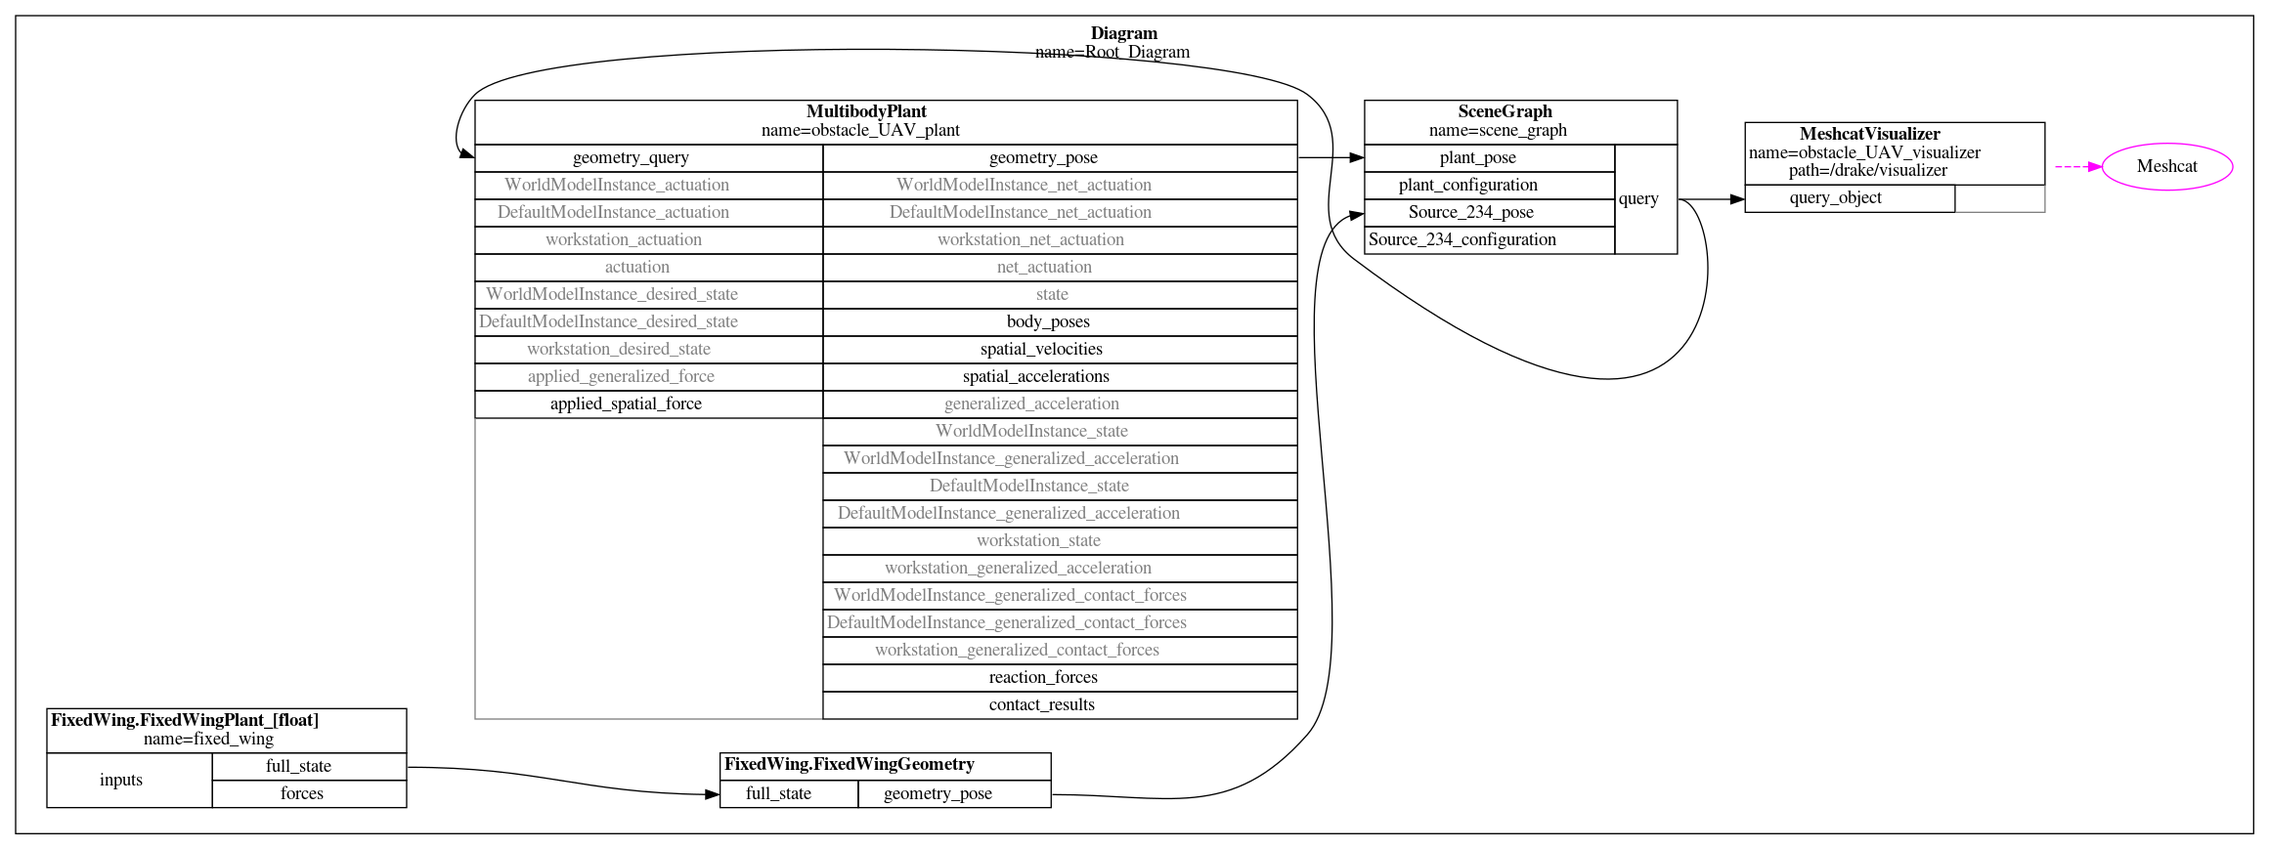
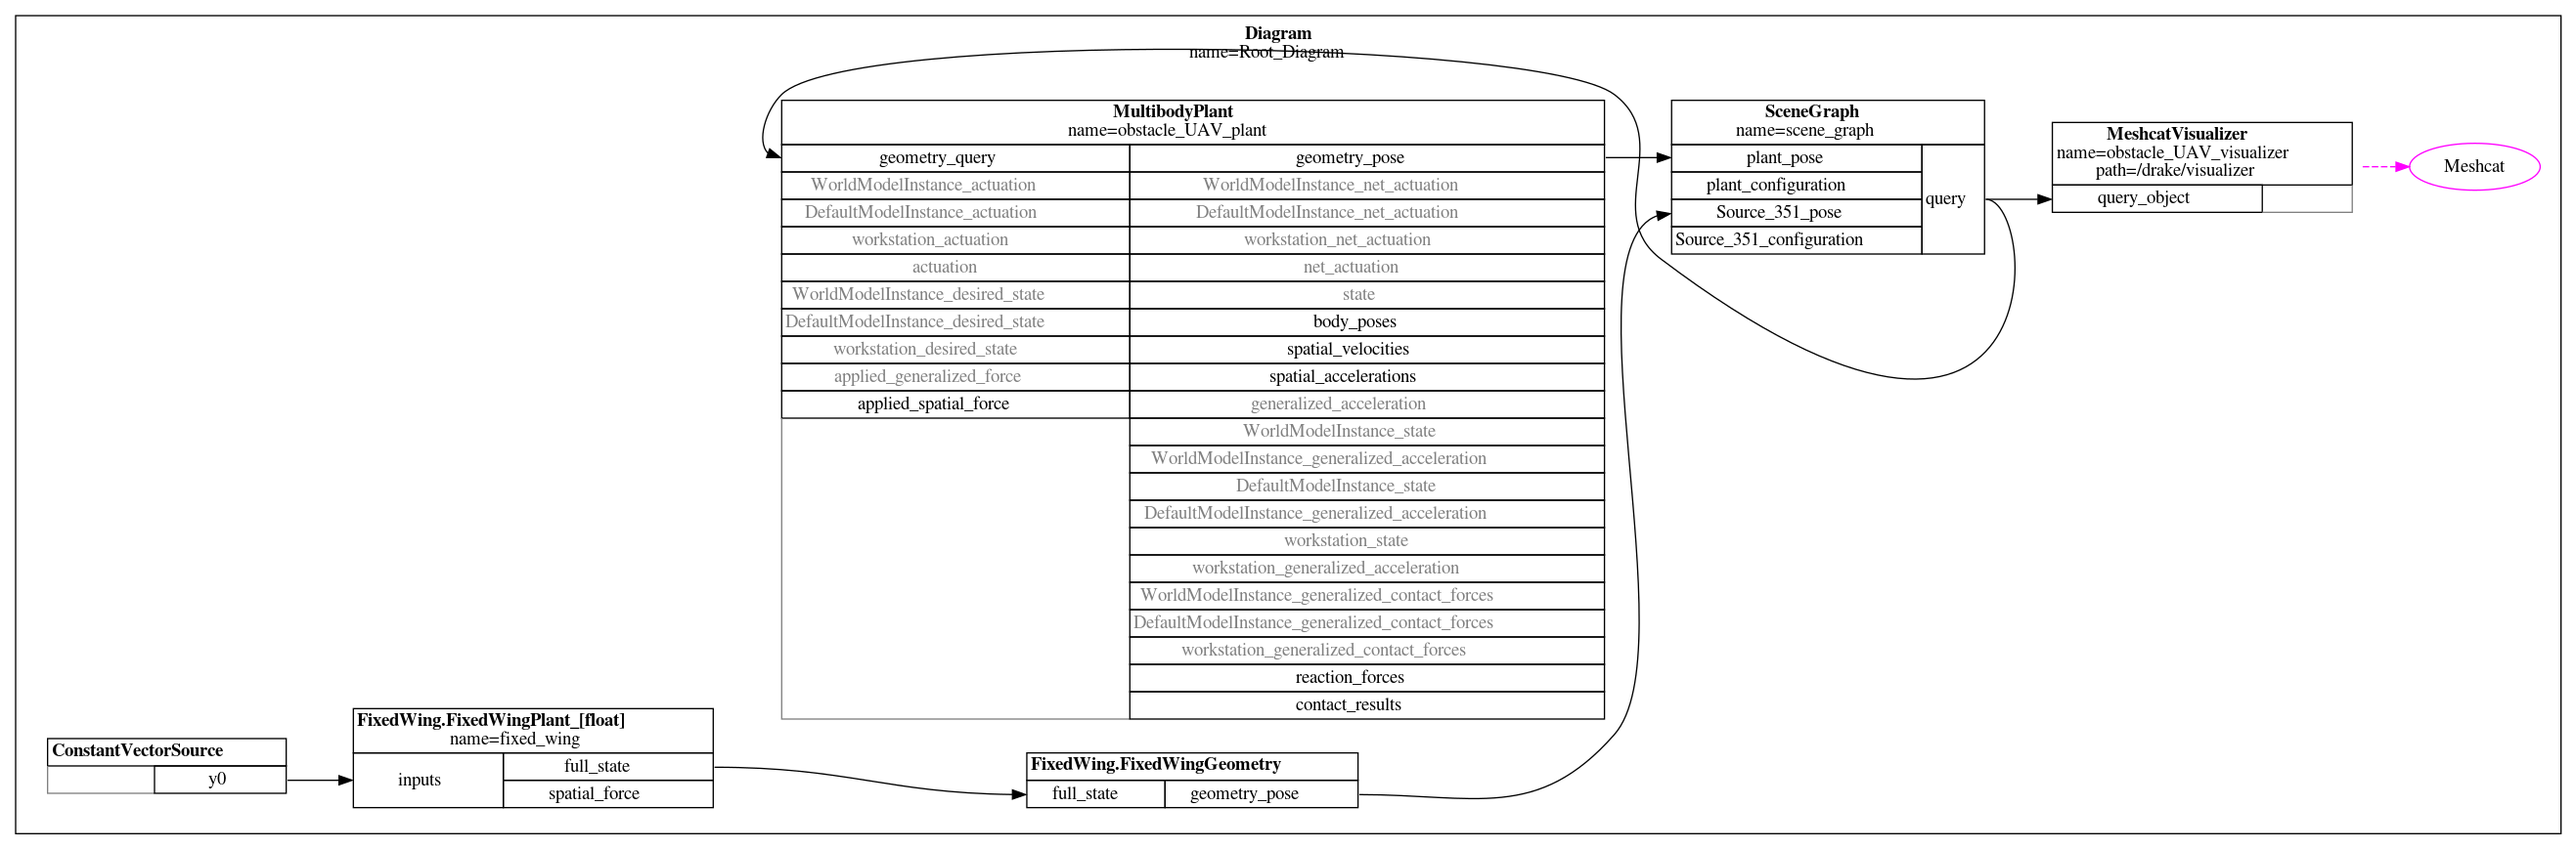
fixed obstacles_scaled and some dynamics

diff --git a/main.py b/main.py
@@ -8,7 +8,7 @@ import numpy as np
 import time
 
 
-obstacle = 1
+obstacle = 0
 
 if obstacle == 0:
     PATH_TO_OBSTACLE_ENV = "models/obstacles_house_formation.urdf"
@@ -17,7 +17,7 @@ if obstacle == 0:
     CENTER_GROUND_XY = np.array([0, 5]) 
     GROUND_WIDTH = 7
     GROUND_LENGTH = 15
-    OBST_HEIGHT = 2
+    OBST_HEIGHT = 3
 elif obstacle == 1:
     
     PATH_TO_OBSTACLE_ENV = "models/obstacles_house_formation_Large.urdf"
@@ -28,7 +28,7 @@ elif obstacle == 1:
     OBST_HEIGHT = 2
     
 
-OBSTACLE_SCALEFACTOR= 2.4
+PLANE_WIDTH = 1
 
 # trajectory
 KDIMENTIONS = 3
@@ -50,7 +50,7 @@ if __name__ == "__main__":
     
     print("################ Building environment model ################\n")
     simEnv = sim.SimulationEnvironment(obstacle_load_path=PATH_TO_OBSTACLE_ENV)
-    # simEnv.connect_meshcat()
+    simEnv.connect_meshcat()
     simEnv.build_model()
     simEnv.save_and_display_diagram()
     sim.print_model_instances(simEnv.plant)
@@ -61,22 +61,22 @@ if __name__ == "__main__":
 
     print("################ Starting IRIS region computation ################\n")
     irisOptions = irisUtils.IrisWrapperOptions()
-    irisOptions.use_CliqueCover = True
-    irisOptions.obstacle_scale_factor = OBSTACLE_SCALEFACTOR
-    irisOptions.seed = 0
-    irisOptions.region_file_path = "region_files/iris_regions_Large"
+    irisOptions.use_CliqueCover = False
     irisOptions.clique_num_points = 1000
+    irisOptions.obstacle_offset_factor = PLANE_WIDTH/2.0
+    irisOptions.seed = 0
+    irisOptions.region_file_path = "region_files/iris_regions"
+    irisOptions.num_regions = 20
     
     irisWrapper = irisUtils.IrisWrapper(irisOptions)    
     simEnv.compute_obstacles(irisWrapper)
     irisWrapper.determine_and_set_domain(CENTER_GROUND_XY, GROUND_WIDTH, GROUND_LENGTH, OBST_HEIGHT)    
     
-    # irisWrapper.add_meshVisualization_iris_obstacles(simEnv.meshcat, is_visible=True)
-    # irisWrapper.add_meshVisualization_iris_domain(simEnv.meshcat, is_visible=True)
+    irisWrapper.add_meshVisualization_iris_obstacles(simEnv.meshcat, is_visible=True)
+    irisWrapper.add_meshVisualization_iris_domain(simEnv.meshcat, is_visible=True)
     
     
-    if irisWrapper.load_regions_from_file() is None:
-            
+    if irisWrapper.load_regions_from_file() is None: 
         irisWrapper.solveIRIS()
         irisWrapper.save_regions_to_file()
     
@@ -85,9 +85,10 @@ if __name__ == "__main__":
     
     print("################ FINISHED IRIS computation ################\n\n")
     
+  
     # Save the regions to a file
     
-    
+    input("Press Enter to continue...")
     
     print("################ Solving GCS trajectory ################\n")
     options = gcsUtils.GCSTrajectoryOptions()
@@ -109,8 +110,8 @@ if __name__ == "__main__":
     gcsTraj = gcsUtils.GCSTrajectory(KDIMENTIONS, options)
     start = [0, 0, 1]
     # goal = [0.5, 11.5, 1.5]
-    # goal = [0, 10.5, 1.5]
-    goal = [0.5, 18.5, 1]
+    goal = [0, 10.5, 1.5]
+    # goal = [0.5, 18.5, 1]
     
     gcsTraj.add_start_goal_and_viz(start, goal, simEnv.meshcat, zero_deriv_boundary=None)
     gcsTraj.add_pathLengthCost(1000)
@@ -137,6 +138,7 @@ if __name__ == "__main__":
     simulator.connect_meshcat()
     simulator.add_fixed_wing()
     simulator.add_controller(gcsTraj.trajectory.value(6))
+    simulator.add_constant_inputSource([0,0,0,0])
     simulator.build_model()
     simulator.save_and_display_diagram()
     

diff --git a/FixedWing.py b/FixedWing.py
@@ -128,8 +128,8 @@ def FixedWingPlant_(T):
             fullstate_dot.z = -np.sin(s.gamma) * s.v_a
             fullstate_dot.v_a = X_a/self.m - np.sin(s.gamma) * self.g
             
-            fullstate_dot.beta = np.sin(s.alpha)*s.p - np.cos(s.alpha)*s.r + (np.cos(s.gamma)*np.sin(s.mu)*self.m*self.g + Y_a )/(self.m*s.v_a)
-            fullstate_dot.alpha = s.q - (np.cos(s.alpha)*s.p + np.sin(s.alpha)*s.r)*np.tan(s.beta) +  (np.cos(s.gamma)*np.cos(s.mu)*self.g)/(np.cos(s.beta)*s.v_a) + Z_a/(np.cos(s.beta)*s.v_a*self.m)
+            fullstate_dot.beta = 0 # np.sin(s.alpha)*s.p - np.cos(s.alpha)*s.r + (np.cos(s.gamma)*np.sin(s.mu)*self.m*self.g + Y_a )/(self.m*s.v_a)
+            fullstate_dot.alpha = 0 #s.q - (np.cos(s.alpha)*s.p + np.sin(s.alpha)*s.r)*np.tan(s.beta) +  (np.cos(s.gamma)*np.cos(s.mu)*self.g)/(np.cos(s.beta)*s.v_a) + Z_a/(np.cos(s.beta)*s.v_a*self.m)
             
             fullstate_dot.chi = (-Z_a * np.sin(s.mu) + Y_a * np.cos(s.mu)) / (s.v_a * self.m * np.cos(s.mu))
             fullstate_dot.gamma = (-np.cos(s.gamma) * self.g * self.m - Y_a * np.sin(s.mu) - Z_a * np.cos(s.mu)) / (s.v_a * self.m)
@@ -170,8 +170,8 @@ def FixedWingPlant_(T):
             
             derivatives.get_mutable_vector().SetFromVector(fullstate_dot[:])
             
-            print("derivatives updated")
-            print("fullstate: ", fullstate[:])
+            # print("derivatives updated")
+            # print("fullstate: ", fullstate[:])
                     
         def forces_moments(self, x, u):
             # Unpack control inputs and state variables
@@ -272,7 +272,7 @@ def FixedWingPlant_(T):
                 vi_squared = (va * np.cos(alpha_rad))**2 + (2 * F_thrust_tot) / (rho * S_prop)
                 
                 vi = 0.5 * (np.sqrt(vi_squared) - va * np.cos(alpha_rad)) if vi_squared >= 0 else 0
-                
+                vi = 0
                 
                 # print("vi: ", vi)
             except Exception as e:
@@ -310,7 +310,7 @@ def FixedWingPlant_(T):
         def CopyStateOut(self, context, output):
             x = context.get_continuous_state_vector().CopyToVector()
             output.SetFromVector(x)
-            print("output updated")
+            # print("output updated")
 
         def OutputForces(self, context, output):
             # F, M = self.ComputeForces(context)
@@ -372,9 +372,11 @@ class FixedWingGeometry(LeafSystem):
         assert self.rigth_elevon_frame_id.is_valid()
         assert self.left_elevon_frame_id.is_valid()
         
-    
+
         
         full_state = FullState(self.get_input_port(0).Eval(context)) 
+        # print(f"alpha: {full_state.alpha} beta: {full_state.beta}")# gamma: {full_state.gamma} mu: {full_state.mu} p: {full_state.p} q: {full_state.q} r: {full_state.r} delta_le: {full_state.delta_le} delta_re: {full_state.delta_re} delta_lm: {full_state.delta_lm} delta_rm: {full_state.delta_rm}")
+
         
         stateNED = fi.FixedWingStatesNED(full_state[:NUM_STATES])
         
@@ -414,7 +416,7 @@ class FixedWingGeometry(LeafSystem):
         poses.get_mutable_value().set_value(self.rigth_elevon_frame_id, right_elevon_pose)
         poses.get_mutable_value().set_value(self.left_elevon_frame_id, left_elevon_pose)
         
-        print("body_pose: ", body_pose)
+        # print("body_pose: ", body_pose)
         
     @staticmethod
     def AddToBuilder(builder, fixedWing_state_port, scene_graph):

diff --git a/IrisUtils.py b/IrisUtils.py
@@ -13,7 +13,7 @@ REGION_FILE_PATH = "iris_regions"
 class IrisWrapperOptions:
     use_CliqueCover = False
     num_regions = 15
-    obstacle_scale_factor = 1.05
+    obstacle_offset_factor = 1.05
     seed = 0
     region_file_path = REGION_FILE_PATH
     
@@ -47,7 +47,7 @@ class IrisWrapper:
 
         self.use_CliqueCover = options.use_CliqueCover
         self.num_regions = options.num_regions
-        self.obstacle_scale_factor = options.obstacle_scale_factor
+        self.obstacle_scale_factor = options.obstacle_offset_factor
         self.region_file_path = options.region_file_path
         self.randomGen = RandomGenerator(options.seed)
         self.num_points = options.clique_num_points
@@ -79,7 +79,7 @@ class IrisWrapper:
     
     def solveIRIS(self):
         
-        iris_obstacles_scaled = [obstacle.Scale(self.obstacle_scale_factor) for obstacle in self.iris_obstacles]
+        iris_obstacles_scaled = [pyOpt.HPolyhedron(o.A(), o.b()+self.obstacle_scale_factor) for o in self.iris_obstacles]
         
         if self.iris_obstacles is None:
             raise ValueError("No obstacles to solve IRIS")

diff --git a/FlatnessInverter.py b/FlatnessInverter.py
@@ -261,6 +261,7 @@ def Extract_R_BA(statesNED):
     
     if type(s.alpha) != float:
         R_BA = Ry(-s.alpha) @ Rz(s.beta)
+        # print("used non drake rotation")
     else:
         R_BA = RotationMatrix.MakeYRotation(-s.alpha) @ RotationMatrix.MakeZRotation(s.beta)
     
@@ -271,7 +272,8 @@ def Extract_R_OA(statesNed):
     s = FixedWingStatesNED(statesNed)
     
     if type(s.mu) != float:
-        R_OA = Ry(s.mu) @ Rz(s.gamma) @ Rx(s.chi)
+        R_OA = Rz(s.chi) @ Ry(s.gamma) @ Rx(s.mu)
+        # print("used non drake rotation")
     
     else:
         R_OA = RollPitchYaw(s.mu, s.gamma, s.chi).ToRotationMatrix()

diff --git a/Simulation.py b/Simulation.py
@@ -345,7 +345,7 @@ class SimulationEnvironment():
             sample_times_s = sample_times_s[start_index:end_index+1]
 
             m = 1.54
-            g = 9.81
+            g = 9.80665
             
             self.meshcat.StartRecording()
 
